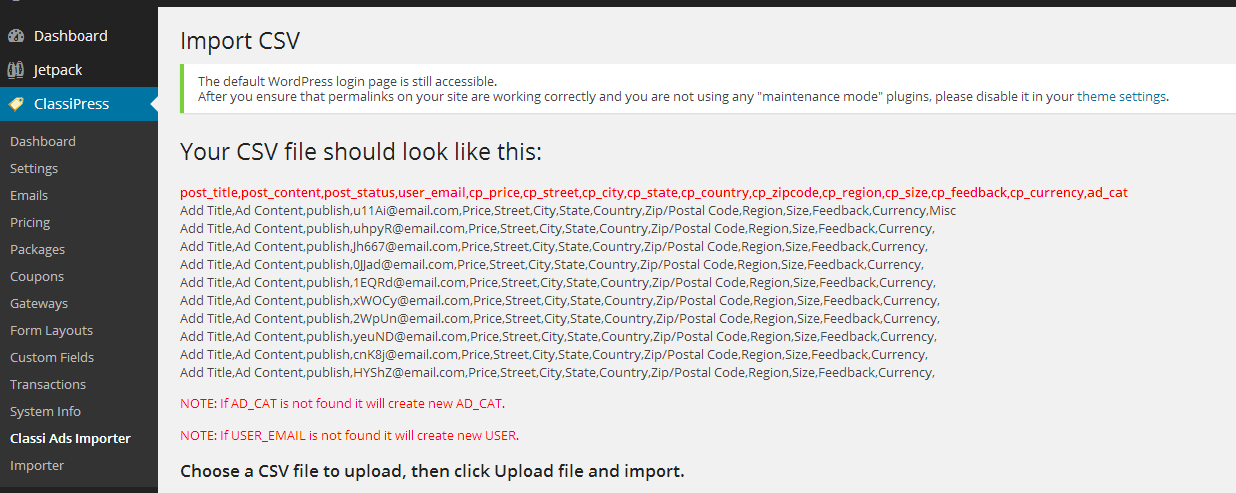
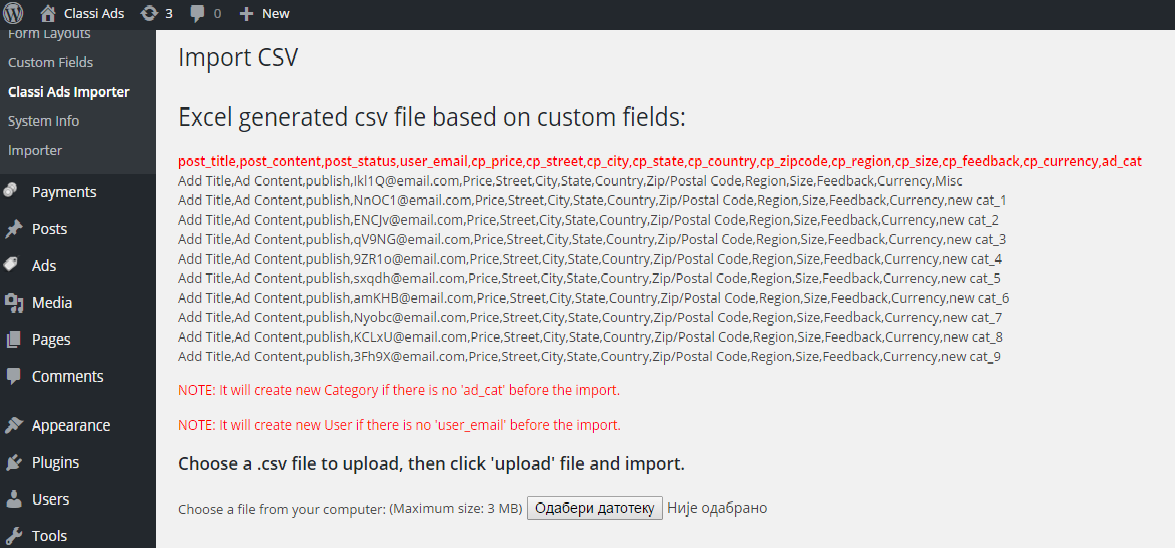
fixed not shown in dashboard menu, fixed ad_cat display, modfied howto section
git-svn-id: https://plugins.svn.wordpress.org/appthemes-classipress-ads-importer-plugin/trunk@1166706 b8457f37-d9ea-0310-8a92-e5e31aec5664

diff --git a/classi-importer.class.php b/classi-importer.class.php
@@ -73,7 +73,7 @@ class Classi_Importer extends WP_Importer {
 	}
 
 	function app_importer_menu() {
-		add_submenu_page('admin-options.php', __('Classi Ads Importer'), __('Classi Ads Importer'), 'manage_options', 'appthemes-classi-importer', array(&$this, 'get_interface'));
+		add_submenu_page('app-dashboard', __('Classi Ads Importer'), __('Classi Ads Importer'), 'manage_options', 'appthemes-classi-importer', array(&$this, 'get_interface'));
 	}
 
 	function get_interface() {
@@ -130,13 +130,14 @@ class Classi_Importer extends WP_Importer {
 		$tmp = $this -> wp_custom_fields;
 		$categories = get_terms('ad_cat', 'orderby=count&hide_empty=0');
 		//var_dump($categories);
+                $tmp1 = array();
 		foreach($categories as $category) {
-			if($category -> name)
+			if(isset($category -> name) && !empty($category -> name))
 				$tmp1[] = $category -> name;
 		}
 		$chars = "abcdefghijklmnopqrstuvwxyzABCDEFGHIJKLMNOPQRSTUVWXYZ0123456789";
 		echo '<div class="narrow" style="width:100%">';
-		echo '<p><h2>' . __('Your CSV file should look like this:', 'appthemes') . '</h2></p>';
+		echo '<p><h2>' . __('Excel generated csv file based on custom fields:', 'appthemes') . '</h2></p>';
 		$csv = '<div><strong style="color:red">post_title,post_content,post_status,user_email,' . implode(',', array_keys($tmp)) . ',ad_cat</strong>';
 		for($i = 0; $i < 10; $i++) {
 			$size = strlen($chars);
@@ -144,14 +145,14 @@ class Classi_Importer extends WP_Importer {
 			for($j = 0; $j < 5; $j++) {
 				$username .= $chars[rand(0, $size - 1)];
 			}
-
-			$csv .= '<div>Add Title,Ad Content,publish,' . $username . '@email.com,' . implode(',', array_values($tmp)) . ',' . $tmp1[$i] . '</div>';
+                        $ad_cat = count($tmp1) && array_key_exists($i, $tmp1)?$tmp1[$i]:"new cat_" . $i;
+			$csv .= '<div>Add Title,Ad Content,publish,' . $username . '@email.com,' . implode(',', array_values($tmp)) . ',' . $ad_cat . '</div>';
 		}
 		$csv .= '</div></h3>';
 		echo $csv;
-		echo '<p style="color:red">' . __('NOTE: If AD_CAT is not found it will create new AD_CAT.', 'appthemes') . '</p>';
-		echo '<p style="color:red">' . __('NOTE: If USER_EMAIL is not found it will create new USER.', 'appthemes') . '</p>';
-		echo '<p><h3>' . __('Choose a CSV file to upload, then click Upload file and import.', 'appthemes') . '</p></h3>';
+		echo '<p style="color:red">' . __('NOTE: It will create new Category if there is no \'ad_cat\' before the import.', 'appthemes') . '</p>';
+		echo '<p style="color:red">' . __('NOTE: It will create new User if there is no \'user_email\' before the import.', 'appthemes') . '</p>';
+		echo '<p><h3>' . __('Choose a .csv file to upload, then click \'upload\' file and import.', 'appthemes') . '</p></h3>';
 		wp_import_upload_form('?page=appthemes-classi-importer&amp;step=1');
 		echo '</div>';
 	}

diff --git a/classi-importer.php b/classi-importer.php
@@ -1,41 +1,43 @@
 <?php
-		/*
-		Plugin Name: ClassiPress Ads Importer plugin
-		Plugin URI: http://appthemesimporter.com/
-		Description: Import Ads+Users from CSV file in ClassiPress Theme
-		Author: @appthemes-importer
-		Version: 2.0.0
-		Author URI: http://appthemesimporter.com/
-		
-    Copyright 2012  @appthemes-importer  (email : admin@appthemesimporter.com)
 
-    This program is free software; you can redistribute it and/or modify
-    it under the terms of the GNU General Public License, version 2, as 
-    published by the Free Software Foundation.
+/*
+  Plugin Name: ClassiPress Ads Importer plugin
+  Plugin URI: http://appthemesimporter.info/
+  Description: Import Ads+Users from CSV file in ClassiPress Theme
+  Author: @appthemes-importer
+  Version: 2.1.0
+  Author URI: http://appthemesimporter.info/
 
-    This program is distributed in the hope that it will be useful,
-    but WITHOUT ANY WARRANTY; without even the implied warranty of
-    MERCHANTABILITY or FITNESS FOR A PARTICULAR PURPOSE.  See the
-    GNU General Public License for more details.
+  Copyright 2012  @appthemes-importer  (email : admin@appthemesimporter.info)
 
-    You should have received a copy of the GNU General Public License
-    along with this program; if not, write to the Free Software
-    Foundation, Inc., 51 Franklin St, Fifth Floor, Boston, MA  02110-1301  USA
-		*/
-				
-		setlocale(LC_ALL, 'en_US.UTF-8');
-		
-		include(dirname(__FILE__).'/classi-importer.class.php');
-		  $my_post = array(
-  );
-	
-		$importer = new Classi_Importer(
-			'ad_listing', 
-			$my_post, 
-			array(
-				'custom_fields' => array(), 
-				'taxonomies' => array()
-			)
-		);
-		$importer->init_plugin();	
+  This program is free software; you can redistribute it and/or modify
+  it under the terms of the GNU General Public License, version 2, as
+  published by the Free Software Foundation.
+
+  This program is distributed in the hope that it will be useful,
+  but WITHOUT ANY WARRANTY; without even the implied warranty of
+  MERCHANTABILITY or FITNESS FOR A PARTICULAR PURPOSE.  See the
+  GNU General Public License for more details.
+
+  You should have received a copy of the GNU General Public License
+  along with this program; if not, write to the Free Software
+  Foundation, Inc., 51 Franklin St, Fifth Floor, Boston, MA  02110-1301  USA
+ */
+
+setlocale(LC_ALL, 'en_US.UTF-8');
+
+include(dirname(__FILE__) . '/classi-importer.class.php');
+$my_post = array(
+);
+
+$importer = new Classi_Importer(
+                'ad_listing',
+                $my_post,
+                array(
+                    'custom_fields' => array(),
+                    'taxonomies' => array(),
+                    'tax_meta' => array(),
+                )
+);
+$importer->init_plugin();
 ?>
